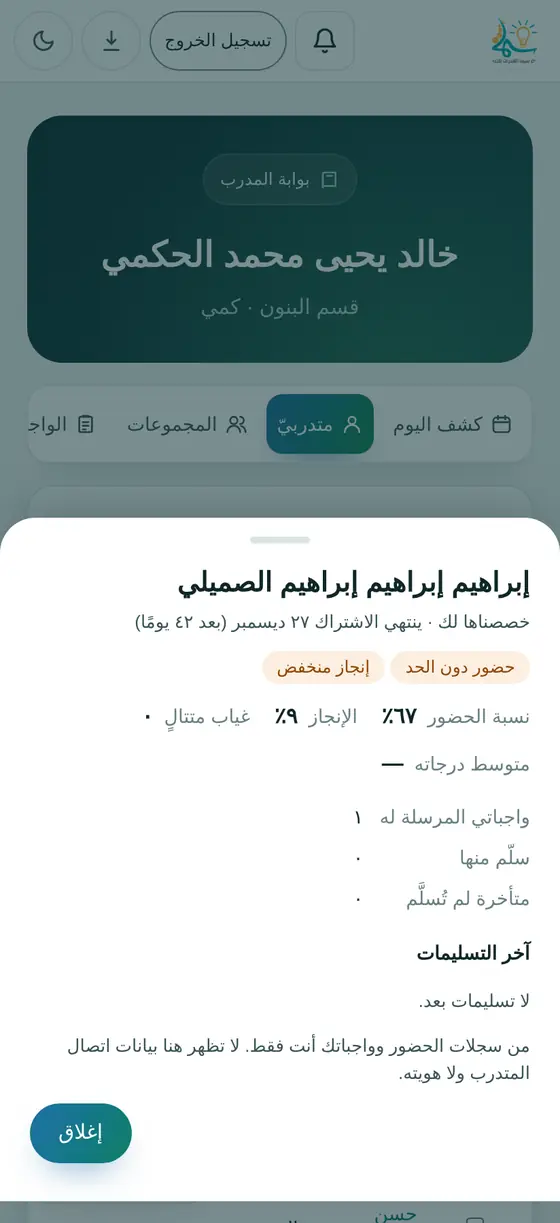
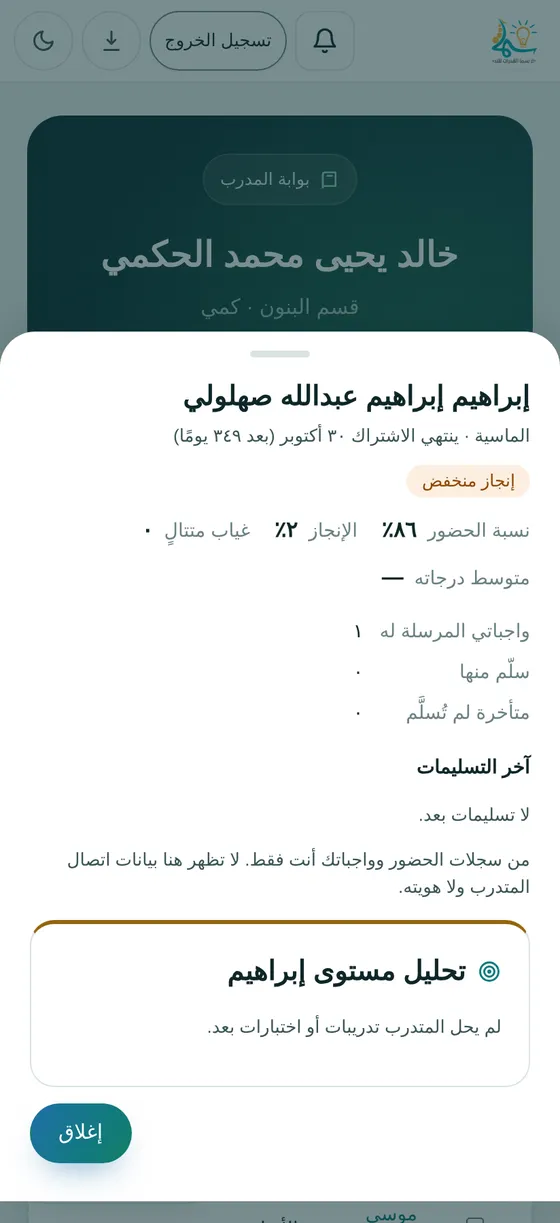
الخطوة AS: تقرير ولي الأمر الأسبوعي وتحديث الدليل (#61)
Claude-Session: https://claude.ai/code/session_012j61WKYZfV81i5FMwMRcDZ

diff --git a/public/guide/trainee.html b/public/guide/trainee.html
@@ -25,7 +25,7 @@ footer{color:#6A8183;font-size:13px;text-align:center}
 @media(prefers-reduced-motion:reduce){html{scroll-behavior:auto}}</style></head>
 <body><header class="hero"><div class="in"><span class="badge">دليل الاستخدام</span><h1>دليل المتدرب</h1><p>الدخول، وتسجيل الحضور، ومتابعة إنجازك وواجباتك من جوالك.</p>
 <div class="top"><a href="../student/">العودة إلى المنصة</a><a href="admin.html">دليل المالك ومدير النظام</a><a href="trainer.html">دليل المدرب</a></div></div></header>
-<main class="wrap"><nav class="toc" aria-label="المحتويات"><b>المحتويات</b><ol><li><a href="#portals">الوصول إلى بوابتك</a></li><li><a href="#login">الدخول أول مرة وعلى جهاز جديد</a></li><li><a href="#welcome">شاشة الترحيب وتسجيل الحضور من التطبيق</a></li><li><a href="#checkin">تسجيل الحضور بالباركود (بديل)</a></li><li><a href="#dash">لوحتي</a></li><li><a href="#hw">واجباتي</a></li><li><a href="#level">قياس مستواي</a></li><li><a href="#msg">المراسلة وتقييم المدرب</a></li><li><a href="#more">الإشعارات والسداد والشهادة</a></li></ol></nav>
+<main class="wrap"><nav class="toc" aria-label="المحتويات"><b>المحتويات</b><ol><li><a href="#portals">الوصول إلى بوابتك</a></li><li><a href="#login">الدخول أول مرة وعلى جهاز جديد</a></li><li><a href="#welcome">شاشة الترحيب وتسجيل الحضور من التطبيق</a></li><li><a href="#checkin">تسجيل الحضور بالباركود (بديل)</a></li><li><a href="#dash">لوحتي</a></li><li><a href="#hw">واجباتي</a></li><li><a href="#level">قياس مستواي: التحليل والمحاكي والتدريب</a></li><li><a href="#msg">المراسلة وتقييم المدرب</a></li><li><a href="#more">الإشعارات والسداد والشهادة</a></li></ol></nav>
 <section id="portals"><h2><span class="n">1</span>الوصول إلى بوابتك</h2>
     <p>من موقع المركز اضغط «البوابات» واختر «بوابة المتدرب». ولولي الأمر بوابة مستقلة يتابع منها ابنه.</p>
     <div class="figs"><figure class="phone"><a href="img/s10_portals.webp" target="_blank" rel="noopener"><img src="img/s10_portals.webp" alt="صفحة البوابات" loading="lazy"></a><figcaption>صفحة البوابات</figcaption></figure></div></section>
@@ -49,13 +49,17 @@ footer{color:#6A8183;font-size:13px;text-align:center}
 <section id="hw"><h2><span class="n">6</span>واجباتي</h2>
     <ol class="steps"><li>الرقم الأحمر على التبويب = واجبات جديدة أو تحتاج تعديلًا.</li><li>في الواجب الكتابي اكتب إجابتك ثم «إرسال»، أو «حفظ مسودة» لتكمل لاحقًا.</li><li>في الاختبار اضغط «ابدأ»: يُفتح مرة واحدة بوقت دقيقتين لكل سؤال، وتُحفظ إجاباتك أولًا بأول، ويُصحَّح عند التسليم أو انتهاء الوقت.</li><li>بعد التصحيح ترى درجتك، والإجابات الصحيحة حين يسمح المدرب.</li></ol>
     <div class="figs"><figure class="phone"><a href="img/s04_hw.webp" target="_blank" rel="noopener"><img src="img/s04_hw.webp" alt="واجباتي" loading="lazy"></a><figcaption>واجباتي</figcaption></figure></div></section>
-<section id="level"><h2><span class="n">7</span>قياس مستواي</h2>
-    <p>اختبار تدريبي تختاره بنفسك: المقرر والوحدة وعدد الأسئلة ثم «ابدأ الاختبار». الأسئلة من بنك مدرب مقررك، وتظهر نتائجك في «محاولاتي».</p>
-    <div class="figs"><figure class="phone"><a href="img/s06_level.webp" target="_blank" rel="noopener"><img src="img/s06_level.webp" alt="قياس مستواي" loading="lazy"></a><figcaption>قياس مستواي</figcaption></figure></div></section>
+<section id="level"><h2><span class="n">7</span>قياس مستواي: التحليل والمحاكي والتدريب</h2>
+    <p><b>تحليل مستواي:</b> نسبة إجاباتك الصحيحة في كل مقرر ومهارة، من الأضعف إلى الأقوى، مع ▲ للتحسن و▼ للتراجع. «ركّز على» يذكر أضعف مهاراتك، وزر <b>«تدرّب على هذه»</b> يفتح 10 أسئلة من تلك المهارة.</p>
+    <p><b>محاكي الاختبار:</b> اختبار كامل موقوت بأقسام القدرات (اللفظي ثم الكمي).</p>
+    <ol class="steps"><li>اختر الأقسام وانظر عدد الأسئلة والوقت، ثم «ابدأ المحاكي».</li><li>سؤال في كل صفحة: اختر الإجابة، و«علّم للمراجعة» لما تريد العودة إليه، و«الأسئلة» تفتح خريطة تنتقل منها لأي سؤال.</li><li>إجاباتك تُحفظ أولًا بأول. «خروج مؤقت» يبقي المحاكي مفتوحًا، والوقت مستمر، وتعود إليه بـ«أكمل المحاكي».</li><li>«تسليم المحاكي» يعرض مؤشر جاهزيتك ونتيجة كل قسم ومهارة، ومراجعة الإجابات الصحيحة.</li></ol>
+    <p class="note info">المؤشر تدريبي من بنك المركز وليس درجة قياس. ثلاث محاولات في اليوم، وتُقدَّم لك أولًا أسئلة لم تحلها من قبل.</p>
+    <p><b>تدريب سريع:</b> اختر المقرر والوحدة أو مهارة بعينها وعدد الأسئلة. وتظهر كل نتائجك في «محاولاتي».</p>
+    <div class="figs"><figure class="phone"><a href="img/s06_level.webp" target="_blank" rel="noopener"><img src="img/s06_level.webp" alt="تحليل مستواي والمحاكي" loading="lazy"></a><figcaption>تحليل مستواي والمحاكي</figcaption></figure><figure class="phone"><a href="img/s06b_sim.webp" target="_blank" rel="noopener"><img src="img/s06b_sim.webp" alt="شاشة المحاكي" loading="lazy"></a><figcaption>شاشة المحاكي</figcaption></figure><figure class="phone"><a href="img/s06c_sim_result.webp" target="_blank" rel="noopener"><img src="img/s06c_sim_result.webp" alt="نتيجة المحاكي" loading="lazy"></a><figcaption>نتيجة المحاكي</figcaption></figure></div></section>
 <section id="msg"><h2><span class="n">8</span>المراسلة وتقييم المدرب</h2>
     <p><b>المراسلة:</b> اختر مدرب المقرر واكتب رسالتك.</p>
     <p><b>تقييم المدرب:</b> بعد 3 أيام حضور يمكنك تقييم مدربك مرة كل شهر (وضوح الشرح، التفاعل، الالتزام، فائدة التدريبات) مع تعليق اختياري. يصل التقييم للمدرب مجمّعًا دون اسمك.</p>
     <div class="figs"><figure class="phone"><a href="img/s07_msg.webp" target="_blank" rel="noopener"><img src="img/s07_msg.webp" alt="المراسلة" loading="lazy"></a><figcaption>المراسلة</figcaption></figure><figure class="phone"><a href="img/s08_rate.webp" target="_blank" rel="noopener"><img src="img/s08_rate.webp" alt="تقييم المدرب" loading="lazy"></a><figcaption>تقييم المدرب</figcaption></figure></div></section>
 <section id="more"><h2><span class="n">9</span>الإشعارات والسداد والشهادة</h2>
-    <ul class="tips"><li><b>الجرس:</b> تذكير قبل الجلسة، والواجبات الجديدة، ورسائل الإدارة والمدرب، ورموز الدخول لجهاز جديد.</li><li><b>طلب الشراء:</b> في «لوحتي» ترى رقم طلبك والمطلوب والمدفوع والمتبقي. إن حوّلت المبلغ اضغط «حوّلت المبلغ؟ أبلغنا بالتحويل» واكتب المبلغ والمرجع؛ تؤكده الإدارة بعد مطابقة كشف البنك.</li><li><b>الشهادة المعتمدة:</b> تصدرها منصة منار (mnar.sa)، فأنشئ حسابك فيها. ووثيقة المنصة «إفادة حضور».</li><li><b>بياناتك:</b> لتصحيح الاسم أو الجوال تواصل مع إدارة المركز عبر واتساب.</li></ul></section>
+    <ul class="tips"><li><b>الجرس:</b> تذكير قبل الجلسة، والواجبات الجديدة، ورسائل الإدارة والمدرب، ورموز الدخول لجهاز جديد.</li><li><b>طلب الشراء:</b> في «لوحتي» ترى رقم طلبك والمطلوب والمدفوع والمتبقي. إن حوّلت المبلغ اضغط «حوّلت المبلغ؟ أبلغنا بالتحويل» واكتب المبلغ والمرجع؛ تؤكده الإدارة بعد مطابقة كشف البنك.</li><li><b>ولي أمرك:</b> يرى في بوابته تقرير أسبوعك (الحضور والواجبات والتدريب ومستوى المهارات) وتحليل مستواك.</li><li><b>الشهادة المعتمدة:</b> تصدرها منصة منار (mnar.sa)، فأنشئ حسابك فيها. ووثيقة المنصة «إفادة حضور».</li><li><b>بياناتك:</b> لتصحيح الاسم أو الجوال تواصل مع إدارة المركز عبر واتساب.</li></ul></section>
 <footer>منصة مركز سما القدرات للتدريب — الصور من النسخة التجريبية ببيانات وهمية. اضغط أي صورة لتكبيرها.</footer></main></body></html>

diff --git a/src/weekly_logic.js b/src/weekly_logic.js
@@ -1,0 +1,85 @@
+/* =====================================================================
+   تقرير ولي الأمر الأسبوعي (الخطوة AS): أسبوع الدراسة من الأحد إلى السبت.
+   الحضور (جلسات الباقة ودفعات البرامج)، والواجبات، والتدريب والمحاكي، ونقاط الضعف،
+   وملخص بجمل جاهزة. عرض فقط (لا يُحفظ)؛ والإشعار الأسبوعي داخلي يوم الخميس
+   (weeklyNotes ↔ run_weekly_reports) ولا إرسال خارجي آلي.
+   ===================================================================== */
+import { addDays, riyadhNow, fmtShort, fmtNum } from './utils.js';
+import { sessionOn, planName, SECTIONS } from './qudurat.js';
+import { isTargeted } from './learning_logic.js';
+import { answerLog, analyze } from './analysis_logic.js';
+import { pct } from './sim_logic.js';
+
+export const WEEK_NOTE_DOW = 4, WEEK_NOTE_HOUR = 18;   // الخميس 6 مساءً بتوقيت الرياض
+const dow = d => new Date(d + 'T12:00:00Z').getUTCDay();
+export const weekOf = d => { const from = addDays(d, -dow(d)); return { from, to:addDays(from, 6) }; };
+const inR = (d, w) => !!d && d >= w.from && d <= w.to;
+const dateOf = ts => ts ? new Date(Date.parse(ts) + 3 * 3600e3).toISOString().slice(0, 10) : '';
+const live = (s, d) => ['pending', 'active'].includes(s.status) && (!s.start_date || s.start_date <= d) && (!s.end_date || s.end_date >= d);
+
+export function weeklyReport(D, trainee_id, from, n = riyadhNow()){
+  const w = { from, to:addDays(from, 6) }, upto = w.to < n.date ? w.to : n.date, t = (D.trainees || []).find(x => x.id === trainee_id) || { id:trainee_id };
+  // الحضور: جلسات الباقة المنعقدة حتى اليوم (اليوم بعد نهاية جلسته)، ودفعات البرامج
+  const days = [], att = { held:0, present:0, late:0, absent:[] };
+  for(const s of (D.subscriptions || []).filter(x => x.trainee_id === trainee_id)){
+    for(let d = w.from; d <= upto; d = addDays(d, 1)){ if(!live(s, d) || (s.track_from && d < s.track_from)) continue; const ses = sessionOn(D, s.section, d); if(!ses) continue;
+      if(d === n.date && n.hm < String(ses.end).slice(0, 5)) continue;
+      const a = (D.sub_attendance || []).find(x => x.subscription_id === s.id && x.att_date === d);
+      att.held++; if(a){ att.present++; if(a.status === 'متأخر') att.late++; } else att.absent.push(d);
+      days.push({ date:d, label:planName((D.plans || []).find(p => p.id === s.plan_id)), status:a ? a.status : 'غائب' }); } }
+  for(const e of (D.enrollments || []).filter(x => x.trainee_id === trainee_id && x.status !== 'ملغى')){
+    const c = (D.cohorts || []).find(x => x.id === e.cohort_id), pr = (D.programs || []).find(x => x.id === (c?.program_id || e.program_id));
+    for(const a of (D.attendance || []).filter(x => x.enrollment_id === e.id && inR(x.att_date, w))){ att.held++; if(a.status === 'غائب'){ att.absent.push(a.att_date); } else { att.present++; if(a.status === 'متأخر') att.late++; }
+      days.push({ date:a.att_date, label:pr?.name || 'برنامج', status:a.status }); } }
+  days.sort((a, b) => a.date.localeCompare(b.date));
+  // الواجبات: المنشورة له هذا الأسبوع أو المستحقة فيه
+  const asg = (D.assignments || []).filter(a => isTargeted(a, trainee_id) && (inR(a.publish_date, w) || inR(a.due_date, w)) && a.publish_date <= upto
+    && (D.subscriptions || []).some(s => s.trainee_id === trainee_id && s.section === a.section && (s.subjects || []).includes(a.subject)));
+  const hw = asg.map(a => { const s = (D.submissions || []).find(x => x.assignment_id === a.id && x.trainee_id === trainee_id);
+    const done = ['submitted', 'graded', 'needs_revision'].includes(s?.status);
+    return { title:a.title, subject:a.subject, due:a.due_date, kind:a.kind, done, late:!!s?.late, score:s?.status === 'graded' && s.score != null ? `${s.score} / ${a.max_score}` : null, overdue:!done && a.due_date < n.date }; });
+  // التدريب والمحاكي
+  const ats = (D.attempts || []).filter(a => a.trainee_id === trainee_id && a.submitted_at && inR(dateOf(a.submitted_at), w));
+  const answered = ats.reduce((s, a) => s + a.total, 0), right = ats.reduce((s, a) => s + (a.score || 0), 0);
+  const sims = ats.filter(a => a.kind === 'sim').map(a => ({ date:dateOf(a.submitted_at), pct:pct(a.score, a.total), focus:a.focus || '' }));
+  // الضعف: كل الإجابات حتى نهاية الأسبوع، ودقة هذا الأسبوع مقابل ما قبله
+  const log = answerLog(D, trainee_id).filter(r => dateOf(r.at) <= w.to), an = analyze(log);
+  const wk = log.filter(r => inR(dateOf(r.at), w)), before = log.filter(r => dateOf(r.at) < w.from);
+  const acc = { week:wk.length ? pct(wk.filter(r => r.right).length, wk.length) : null, before:before.length ? pct(before.filter(r => r.right).length, before.length) : null };
+  const r = { trainee:{ id:t.id, name:t.full_name || '', first:String(t.full_name || '').split(' ')[0] }, week:w, upto, attendance:{ ...att, rate:att.held ? pct(att.present, att.held) : null }, days, hw,
+    hwDone:hw.filter(h => h.done).length, practice:{ attempts:ats.length, answered, right, pct:answered ? pct(right, answered) : null }, sims, analysis:an, accuracy:acc,
+    sections:[...new Set((D.subscriptions || []).filter(s => s.trainee_id === trainee_id).map(s => SECTIONS[s.section]))] };
+  r.summary = summaryOf(r); return r;
+}
+
+/* ملخص بجمل جاهزة، ونصائح عملية */
+export function summaryOf(r){
+  const out = [], tips = [], A = r.attendance, nm = r.trainee.first || 'المتدرب';
+  if(A.held) out.push(`حضر ${nm} ${fmtNum(A.present)} من ${fmtNum(A.held)} ${A.held === 1 ? 'جلسة' : 'جلسات'}${A.late ? `، منها ${fmtNum(A.late)} بتأخر` : ''}.`); else out.push('لم تنعقد له جلسات هذا الأسبوع حتى الآن.');
+  if(r.hw.length) out.push(`سلّم ${fmtNum(r.hwDone)} من ${fmtNum(r.hw.length)} ${r.hw.length === 1 ? 'واجب' : 'واجبات'}.`);
+  if(r.practice.attempts) out.push(`حل ${fmtNum(r.practice.answered)} سؤالًا تدريبيًا بدقة ${fmtNum(r.practice.pct)}٪${r.sims.length ? `، وأدّى ${r.sims.length === 1 ? 'محاكيًا' : fmtNum(r.sims.length) + ' محاكيات'} آخرها ${fmtNum(r.sims.slice(-1)[0].pct)}٪` : ''}.`);
+  else out.push('لم يحل تدريبات في المنصة هذا الأسبوع.');
+  if(r.accuracy.week != null && r.accuracy.before != null){ const d = r.accuracy.week - r.accuracy.before; if(Math.abs(d) >= 5) out.push(d > 0 ? `تحسّنت دقته ${fmtNum(d)} نقطة عن الأسابيع السابقة.` : `تراجعت دقته ${fmtNum(-d)} نقطة عن الأسابيع السابقة.`); }
+  if(A.absent.length) tips.push('الانتظام في الحضور؛ كل جلسة فائتة تؤثر في الاستيعاب ونسبة الحضور.');
+  if(r.hw.some(h => h.overdue)) tips.push('إكمال الواجبات المتأخرة قبل نهاية الأسبوع.');
+  if(r.analysis.weakest.length) tips.push(`التدريب على: ${r.analysis.weakest.map(w => w.category).join('، ')} (من «قياس مستواي» ← «تدرّب على هذه»).`);
+  if(!r.practice.attempts) tips.push('حل تدريب سريع أو محاكٍ واحد على الأقل أسبوعيًا.');
+  return { lines:out, tips };
+}
+
+/* إشعار داخلي أسبوعي لأولياء الأمور (↔ run_weekly_reports) */
+export function weeklyNotes(D, n){
+  if(dow(n.date) !== WEEK_NOTE_DOW || +n.hm.slice(0, 2) < WEEK_NOTE_HOUR) return [];
+  const w = weekOf(n.date), out = [];
+  const ids = [...new Set((D.guardian_links || []).filter(l => l.status === 'verified').map(l => l.trainee_id))]
+    .filter(id => (D.subscriptions || []).some(s => s.trainee_id === id && live(s, n.date)) || (D.enrollments || []).some(e => e.trainee_id === id && e.status !== 'ملغى'));
+  for(const id of ids){ const t = (D.trainees || []).find(x => x.id === id); if(!t) continue;
+    out.push({ to:'guardian', trainee_id:id, date:n.date, kind:'weekly_report', sender:'system', dedupe_key:`weekly:g:${id}:${w.from}`,
+      text:`تقرير أسبوع ${String(t.full_name).split(' ')[0]} جاهز: الحضور والواجبات والتدريب ونقاط التركيز. افتح «تقرير الأسبوع» في البوابة.` }); }
+  return out;
+}
+
+/* نص مختصر للواتساب (يرسله المسؤول بنفسه) */
+export function weeklyText(r){
+  return [`تقرير الأسبوع (${fmtShort(r.week.from)} – ${fmtShort(r.week.to)}) — ${r.trainee.name}`, ...r.summary.lines, ...(r.summary.tips.length ? ['نوصي بـ:', ...r.summary.tips.map(x => '• ' + x)] : []), 'مركز سما القدرات للتدريب'].join('\n');
+}

diff --git a/src/weekly_views.js b/src/weekly_views.js
@@ -1,0 +1,71 @@
+/* =====================================================================
+   تقرير ولي الأمر الأسبوعي (الخطوة AS): بطاقة في بوابة ولي الأمر بتنقل بين الأسابيع
+   وطباعة A4، ونافذة للإدارة (من «المتدربون» ونافذة الاشتراك) فيها طباعة وزر واتساب
+   يفتح رسالة جاهزة يرسلها المسؤول بنفسه.
+   ===================================================================== */
+import { $, esc, fmtNum, fmtShort, riyadhNow, addDays, DAYS } from './utils.js';
+import { ic, toast } from './views2_head.js';
+import { modal, closeModal } from './views2_programs.js';
+import { weekOf, weeklyReport, weeklyText } from './weekly_logic.js';
+import { LEVEL } from './analysis_logic.js';
+import { docShell, printDocs, fmtGreg } from './print.js';
+import { waTo } from './absence_notify.js';
+
+const dowName = d => DAYS[new Date(d + 'T12:00:00Z').getUTCDay()];
+const ST_PILL = { 'حاضر':'ok', 'متأخر':'warn', 'غائب':'bad' };
+const pc = v => v == null ? '—' : fmtNum(v) + '٪';
+
+export function weeklyBody(r){
+  const A = r.attendance, an = r.analysis;
+  return `<div class="wk">
+    <div class="wk-sum">${r.summary.lines.map(x => `<p>${esc(x)}</p>`).join('')}</div>
+    <div class="wk-kpis"><div><span>الحضور</span><b class="num">${A.held ? `${fmtNum(A.present)} / ${fmtNum(A.held)}` : '—'}</b><small>${A.late ? `${fmtNum(A.late)} تأخر` : A.held ? pc(A.rate) : 'لا جلسات'}</small></div>
+      <div><span>الواجبات</span><b class="num">${r.hw.length ? `${fmtNum(r.hwDone)} / ${fmtNum(r.hw.length)}` : '—'}</b><small>${r.hw.some(h => h.overdue) ? `${fmtNum(r.hw.filter(h => h.overdue).length)} متأخر` : r.hw.length ? 'مسلّمة' : 'لا واجبات'}</small></div>
+      <div><span>التدريب</span><b class="num">${fmtNum(r.practice.answered)}</b><small>سؤالًا${r.practice.pct != null ? ` · دقة ${pc(r.practice.pct)}` : ''}</small></div>
+      <div><span>المحاكي</span><b class="num">${r.sims.length ? pc(r.sims.slice(-1)[0].pct) : '—'}</b><small>${r.sims.length ? `${fmtNum(r.sims.length)} هذا الأسبوع` : 'لم يُؤدَّ'}</small></div></div>
+    ${r.days.length ? `<h4>الحضور يومًا بيوم</h4><ul class="wk-days">${r.days.map(d => `<li><span>${dowName(d.date)} ${fmtShort(d.date)}</span><span class="hint">${esc(d.label)}</span><span class="pill dot ${ST_PILL[d.status] || 'g'}">${esc(d.status)}</span></li>`).join('')}</ul>` : ''}
+    ${r.hw.length ? `<h4>الواجبات</h4><ul class="wk-days">${r.hw.map(h => `<li><span>${esc(h.title)}</span><span class="hint">${esc(h.subject)} · يُستحق ${fmtShort(h.due)}</span><span class="pill ${h.done ? 'ok' : h.overdue ? 'bad' : 'g'}">${h.done ? (h.score ? 'الدرجة ' + esc(h.score) : h.late ? 'سُلّم متأخرًا' : 'سُلّم') : h.overdue ? 'لم يُسلَّم' : 'لم يحن موعده'}</span></li>`).join('')}</ul>` : ''}
+    ${an.subjects.length ? `<h4>مستوى المهارات</h4><div class="wk-sk">${an.subjects.map(s => `<div><b>${esc(s.subject)} ${pc(s.pct)}</b>${s.skills.filter(k => k.ranked).slice(0, 4).map(k => `<span class="pill ${LEVEL[k.level][0]}">${esc(k.category)} ${pc(k.pct)}</span>`).join(' ') || '<span class="hint">بيانات قليلة</span>'}</div>`).join('')}</div>` : ''}
+    ${r.summary.tips.length ? `<h4>نوصي هذا الأسبوع بـ</h4><ul class="wk-tips">${r.summary.tips.map(x => `<li>${esc(x)}</li>`).join('')}</ul>` : ''}
+  </div>`;
+}
+
+export function weeklyDoc(r){
+  const A = r.attendance;
+  return docShell({ docNo:`WK-${r.week.from.replace(/-/g, '')}`, title:'تقرير الأسبوع للمتدرب', sub:`${fmtGreg(r.week.from)} – ${fmtGreg(r.week.to)}`,
+    info:[['المتدرب', r.trainee.name, 'wide'], ['القسم', r.sections.join('، ') || '—'], ['حتى تاريخ', fmtGreg(r.upto)]],
+    stats:[['الحضور', A.held ? `${A.present} / ${A.held}` : '—', A.absent.length ? 'warn' : 'ok'], ['الواجبات', r.hw.length ? `${r.hwDone} / ${r.hw.length}` : '—'], ['أسئلة التدريب', String(r.practice.answered)], ['دقة التدريب', pc(r.practice.pct)], ['آخر محاكٍ', r.sims.length ? pc(r.sims.slice(-1)[0].pct) : '—']],
+    body:weeklyBody(r).replace('<div class="wk">', '<div class="wk wk-print">'), note:'تقرير تلقائي من منصة المركز للاطلاع والمتابعة؛ مؤشر المحاكي تدريبي وليس درجة قياس.' });
+}
+
+/* بطاقة البوابة (ولي الأمر) */
+let wkFrom = null, wkFor = null;
+export function weeklyCard(D, trainee_id){
+  const n = riyadhNow(), cur = weekOf(n.date).from; if(wkFor !== trainee_id){ wkFor = trainee_id; wkFrom = cur; }
+  const r = weeklyReport(D, trainee_id, wkFrom, n);
+  return `<div class="card pad rv wk-card" id="wkCard"><div class="wk-h"><h3 class="ctitle" style="margin:0">${ic('calendar')}تقرير الأسبوع</h3>
+      <div class="wk-nav"><button class="btn sm" id="wkPrev" aria-label="الأسبوع السابق">${ic('prev')}</button><b>${fmtShort(r.week.from)} – ${fmtShort(r.week.to)}${wkFrom === cur ? ' <span class="pill info">هذا الأسبوع</span>' : ''}</b>
+      <button class="btn sm" id="wkNext" aria-label="الأسبوع التالي" ${wkFrom >= cur ? 'disabled' : ''}>${ic('next')}</button></div></div>
+    ${weeklyBody(r)}<div style="display:flex;justify-content:flex-end;margin-top:12px"><button class="btn sm" id="wkPrint">${ic('form')} طباعة / PDF</button></div></div>`;
+}
+export function bindWeeklyCard(D, trainee_id, redraw){
+  const cur = weekOf(riyadhNow().date).from;
+  $('#wkPrev').onclick = () => { wkFrom = addDays(wkFrom, -7); redraw(); };
+  $('#wkNext').onclick = () => { if(wkFrom < cur){ wkFrom = addDays(wkFrom, 7); redraw(); } };
+  $('#wkPrint').onclick = () => printDocs([weeklyDoc(weeklyReport(D, trainee_id, wkFrom))], 'تقرير الأسبوع');
+}
+
+/* نافذة الإدارة: تُحمَّل بيانات التعلم للمتدرب ثم يُبنى التقرير؛ واتساب لولي الأمر أو للمتدرب */
+export async function adminWeeklyModal(AD, trainee_id, loadLearning){
+  let from = weekOf(riyadhNow().date).from, X;
+  try { X = await loadLearning(trainee_id); } catch(e){ return toast(e.message); }
+  const D = { ...AD, ...X }, t = (AD.trainees || []).find(x => x.id === trainee_id) || {};
+  const draw = () => { const r = weeklyReport(D, trainee_id, from), cur = weekOf(riyadhNow().date).from, gp = t.guardian_phone, wa = waTo(gp || t.phone, weeklyText(r));
+    modal(`<h3>تقرير الأسبوع · ${esc(t.full_name || '')}</h3><div class="wk-nav" style="margin:-6px 0 10px"><button class="btn sm" id="awP" aria-label="الأسبوع السابق">${ic('prev')}</button><b>${fmtShort(r.week.from)} – ${fmtShort(r.week.to)}</b><button class="btn sm" id="awN" aria-label="الأسبوع التالي" ${from >= cur ? 'disabled' : ''}>${ic('next')}</button></div>
+      ${weeklyBody(r)}<div style="display:flex;gap:8px;flex-wrap:wrap;justify-content:flex-end;margin-top:12px">
+      ${wa ? `<a class="btn sm" id="awWa" href="${esc(wa)}" target="_blank" rel="noopener">${ic('chat')} واتساب ${gp ? 'لولي الأمر' : 'للمتدرب'}</a>` : '<span class="hint">لا يوجد جوال صالح للواتساب</span>'}
+      <button class="btn sm" id="awPr">${ic('form')} طباعة / PDF</button><button class="btn pri sm" id="awX">إغلاق</button></div>`);
+    $('#awP').onclick = () => { from = addDays(from, -7); draw(); }; $('#awN').onclick = () => { if(from < cur){ from = addDays(from, 7); draw(); } };
+    $('#awPr').onclick = () => printDocs([weeklyDoc(r)], 'تقرير الأسبوع'); $('#awX').onclick = closeModal; };
+  draw();
+}

diff --git a/public/guide/admin.html b/public/guide/admin.html
@@ -80,10 +80,14 @@ footer{color:#6A8183;font-size:13px;text-align:center}
     <p class="note warn">الجوال مفتاح دخول البوابة، ورقم الهوية يكتبه المتدرب عند الحضور: أبلغه بأي تغيير فيهما. وكل تعديل مسجّل في أرشيف الحركات.</p>
     <p><b>تعديل بيانات أي متدرب:</b> زر القلم في «المتدربون»، أو «تعديل بيانات المتدرب» في نافذة الاشتراك، أو البحث في «مراجعة البيانات» (يصل إلى كل المتدربين لا أصحاب الملاحظات فقط).</p>
     <p><b>كشف حساب المتدرب:</b> زر الإيصال في «المتدربون»، أو «كشف الحساب» في بياناته، أو «كشف حساب المتدرب» في نافذة الطلب: كل طلباته ورسومها والدفعات السابقة والفواتير وإشعارات الاسترداد بالتسلسل الزمني، مع الرصيد، وطباعة A4 وتصدير CSV.</p>
-    <div class="figs"><figure class="wide"><a href="img/a30_trainees.webp" target="_blank" rel="noopener"><img src="img/a30_trainees.webp" alt="سجل المتدربين" loading="lazy"></a><figcaption>سجل المتدربين</figcaption></figure><figure class="wide"><a href="img/a24_data.webp" target="_blank" rel="noopener"><img src="img/a24_data.webp" alt="مراجعة البيانات" loading="lazy"></a><figcaption>مراجعة البيانات</figcaption></figure><figure class="wide"><a href="img/a37_edit_trainee.webp" target="_blank" rel="noopener"><img src="img/a37_edit_trainee.webp" alt="بيانات المتدرب" loading="lazy"></a><figcaption>بيانات المتدرب</figcaption></figure><figure class="wide"><a href="img/a36_statement.webp" target="_blank" rel="noopener"><img src="img/a36_statement.webp" alt="كشف حساب المتدرب" loading="lazy"></a><figcaption>كشف حساب المتدرب</figcaption></figure></div></section>
+    <p><b>تقرير الأسبوع:</b> زر التقويم في «المتدربون»، أو «تقرير الأسبوع» في نافذة الاشتراك: حضور الأسبوع يومًا بيوم، والواجبات، والتدريب والمحاكي، ومستوى المهارات، ونصائح عملية، مع التنقل بين الأسابيع. «واتساب لولي الأمر» يفتح رسالة جاهزة ترسلها بنفسك من واتساب المركز، و«طباعة» تخرجه A4 بترويسة المركز.</p>
+    <p class="note info">ولي الأمر يرى التقرير نفسه في بوابته، ويصله إشعار داخلي كل خميس بعد السادسة مساءً بأن تقرير الأسبوع جاهز. لا يُرسل شيء خارج المنصة آليًا.</p>
+    <div class="figs"><figure class="wide"><a href="img/a30_trainees.webp" target="_blank" rel="noopener"><img src="img/a30_trainees.webp" alt="سجل المتدربين" loading="lazy"></a><figcaption>سجل المتدربين</figcaption></figure><figure class="wide"><a href="img/a24_data.webp" target="_blank" rel="noopener"><img src="img/a24_data.webp" alt="مراجعة البيانات" loading="lazy"></a><figcaption>مراجعة البيانات</figcaption></figure><figure class="wide"><a href="img/a37_edit_trainee.webp" target="_blank" rel="noopener"><img src="img/a37_edit_trainee.webp" alt="بيانات المتدرب" loading="lazy"></a><figcaption>بيانات المتدرب</figcaption></figure><figure class="wide"><a href="img/a36_statement.webp" target="_blank" rel="noopener"><img src="img/a36_statement.webp" alt="كشف حساب المتدرب" loading="lazy"></a><figcaption>كشف حساب المتدرب</figcaption></figure><figure class="wide"><a href="img/a38_weekly.webp" target="_blank" rel="noopener"><img src="img/a38_weekly.webp" alt="تقرير الأسبوع للمتدرب" loading="lazy"></a><figcaption>تقرير الأسبوع للمتدرب</figcaption></figure></div></section>
 <section id="users"><h2><span class="n">13</span>المدربون، وبنوك الأسئلة، وتفعيل الأجهزة</h2>
     <p><b>المدربون وأولياء الأمور:</b> إضافة مدرب بقسمه ومقرراته وجواله وهويته، وربط أولياء الأمور بأبنائهم.</p>
     <p><b>بنوك الأسئلة:</b> بنك لكل مدرب. تضيف الأسئلة واحدًا واحدًا أو «استيراد من Excel»، وتعتمد مفاتيح الإجابات قبل نشر الاختبارات الرسمية.</p>
+    <p><b>تصنيف مهارات قياس:</b> لكل سؤال مهارة من قائمة ثابتة (اللفظي: استيعاب المقروء، التناظر، إكمال الجمل، الخطأ السياقي، الارتباط والاختلاف؛ الكمي: الحساب، الجبر، الهندسة، الإحصاء والاحتمالات، المقارنات الكمية). عليها يُبنى تحليل نقاط الضعف للمتدربين. في «البنوك المشتركة» اضغط «تصنيف المهارات»، واختر الوحدة، وحدّد الأسئلة من صورها، ثم اختر المهارة و«تطبيق على المحدد». وفي محرر أي سؤال حقل «مهارة قياس».</p>
+    <p class="note info">أسئلة اللفظي ذات القطعة صُنّفت «استيعاب المقروء» تلقائيًا. والتصنيف لاحقًا يصحح تحليل المتدربين بأثر رجعي.</p>
     <p><b>تفعيل الأجهزة:</b> هنا تصدر رمز التفعيل (6 أرقام، لمرة واحدة، صالح 7 أيام) للمتدرب أو ولي الأمر أو المدرب، فرديًا أو للجميع مع كشف طباعة. الرمز يظهر مرة واحدة. وفيها بطاقة «طلبات دخول الآن» لمن طلب رمزًا لجهاز جديد، مع زر إرساله عبر واتساب.</p>
     <div class="figs"><figure class="wide"><a href="img/a22_users.webp" target="_blank" rel="noopener"><img src="img/a22_users.webp" alt="المدربون وأولياء الأمور" loading="lazy"></a><figcaption>المدربون وأولياء الأمور</figcaption></figure><figure class="wide"><a href="img/a23_bank.webp" target="_blank" rel="noopener"><img src="img/a23_bank.webp" alt="بنوك الأسئلة" loading="lazy"></a><figcaption>بنوك الأسئلة</figcaption></figure><figure class="wide"><a href="img/a25_access.webp" target="_blank" rel="noopener"><img src="img/a25_access.webp" alt="تفعيل الأجهزة ورموز الدخول" loading="lazy"></a><figcaption>تفعيل الأجهزة ورموز الدخول</figcaption></figure></div></section>
 <section id="reports"><h2><span class="n">14</span>تقرير اليوم والتقارير والطباعة</h2>

diff --git a/src/data2.js b/src/data2.js
@@ -14,6 +14,7 @@ import { checkProfile, checkGroup, GROUPS_MAX } from './trainer_logic.js';
 import { PAY_METHODS, BANK_DEFAULT, orderRemaining, orderNumber, attendanceBlocked, orderPublic, checkTransfer, validIban } from './order_logic.js';
 import { checkRole, auditFilter, auditRedact } from './admin_logic.js';
 import { checkBirthGuardian, selfLinkLogic, LINK_FAIL, LINK_LOCKED } from './identity_logic.js';
+import { weeklyNotes } from './weekly_logic.js';
 import { catOk, simOpen, simExpired, simsToday, SIM_DAILY_MAX, sortSubjects, buildSim, cleanAnswers, CATEGORIES } from './sim_logic.js';
 import { SUBJECTS, validateAssignment, validateQuestion, buildAttempt, attemptPublic, gradeAttempt, canRate, ratingSummary, validateMessage, teacherCovers, teacherTeaches, studentHasScope, bankFor, period, demoLearning, backfillCategories, bankUnitsOf, buildQuiz, quizPublic, gradeQuiz, teacherBank, normalizeBundle, LETTERS, isTargeted, assignmentPublic, submissionPublic, checkTargets, checkExamKeys, quizDeadline, quizOpen , attemptsLeft, attemptsOf, snapOf, liveSubsOf } from './learning_logic.js';
 import { addDays, dowOf, fmtDate, fmtMoney, fmtNum, hash32, makeSaudiId, riyadhNow, t12, toMin, uid, validSaudiId } from './utils.js';
@@ -562,7 +563,7 @@ export const LocalStore = {
   async portalData(role){ const s=await this.portalSession(role); if(!s) throw new Error('انتهت الجلسة، سجّل الدخول مجددًا'); this.autoArchive(); this.runReminders(); this.finalizeExpiredQuizzes(); const out=JSON.parse(JSON.stringify(scopeData(this.data, role, s.phone))); out.bank_assets=this.data.settings?.bank_assets||''; if(out) out.q_meta=qMetaOf(this.data, out); return out; },
   /* صندوق الوارد (الخطوة D): تنبيهات بدء الجلسة تُنشأ عند الحاجة (في السحابة: pg_cron كل دقيقة)، ومفتاح منع التكرار */
   runReminders(){ const D=this.data; D.notifications=D.notifications||[]; const keys=new Set(D.notifications.map(x=>x.dedupe_key).filter(Boolean));
-    const add=sessionReminders(D, riyadhNow()).filter(x=>!keys.has(x.dedupe_key)); if(add.length){ D.notifications.push(...add); this.save(); } return add.length; },
+    const n=riyadhNow(), add=[...sessionReminders(D, n), ...weeklyNotes(D, n).map(x=>({id:uid(), at:new Date().toISOString(), read_at:null, ...x}))].filter(x=>!keys.has(x.dedupe_key)); if(add.length){ D.notifications.push(...add); this.save(); } return add.length; },
   async inboxState(role){ const s=await this.portalSession(role); if(!s) return {items:[], unread:0}; this.load(); this.runReminders(); const sc=scopeData(this.data, role, s.phone); return sc ? inboxOf(sc, role) : {items:[], unread:0}; },
   async adminNotify(f){ const D=this.data, text=String(f.text||'').trim(); if(text.length<3) throw new Error('اكتب نص الرسالة'); if(text.length>600) throw new Error('الرسالة أطول من 600 حرف');
     if(!['student','guardian','teacher'].includes(f.audience)) throw new Error('اختر الفئة المستهدفة');
@@ -811,6 +812,11 @@ export const LocalStore = {
     const L=(this.data.questions=this.data.questions||[]), row={teacher_id:t.id, section:t.section, subject:q.subject, unit:String(q.unit||'').trim()||'عام', skill:String(q.skill||'').trim(), text:q.text.trim(), options:q.options.map(x=>String(x).trim()), correct:+q.correct, explanation:String(q.explanation||'').trim(), difficulty:q.difficulty||'متوسط', status:q.status==='published'?'published':'draft', category:catGuard(q.subject, q.category)};
     if(q.id){ const x=L.find(y=>y.id===q.id); if(!x) throw new Error('السؤال غير موجود'); Object.assign(x,row,{version:(x.version||1)+1}); } else L.push({id:uid(), version:1, created_at:new Date().toISOString(), ...row});
     this.audit('question.save', q.id||'new', t.id); this.save(); return {ok:true}; },
+  /* بيانات التعلم لمتدرب واحد (↔ admin_trainee_learning): للتقرير الأسبوعي في الإدارة */
+  async traineeLearning(id){ const D=this.data, subs=(D.subscriptions||[]).filter(s=>s.trainee_id===id);
+    const out={ attempts:(D.attempts||[]).filter(a=>a.trainee_id===id&&a.submitted_at), submissions:(D.submissions||[]).filter(x=>x.trainee_id===id),
+      assignments:(D.assignments||[]).filter(a=>subs.some(s=>s.section===a.section&&(s.subjects||[]).includes(a.subject))) };
+    return JSON.parse(JSON.stringify({ ...out, q_meta:qMetaOf(D, out) })); },
   /* تصنيف مهارة قياس لأسئلة مختارة (↔ admin_set_category) */
   async setQuestionCategory(ids, category){ const L=this.data.questions||[], c=category||''; const qs=L.filter(q=>(ids||[]).includes(q.id)&&q.status!=='deleted');
     if(!qs.length) throw new Error('اختر سؤالًا واحدًا على الأقل'); if(qs.some(q=>!catOk(q.subject, c))) throw new Error('التصنيف لا يناسب مقرر السؤال');
@@ -981,6 +987,7 @@ export const CloudStore = {
   async startSim(p){ return this._e(await this.sb.rpc('student_start_sim',{p})); },
   async saveAttemptAnswers({attempt_id, answers}){ return this._e(await this.sb.rpc('student_save_attempt',{p_id:attempt_id, p_answers:answers||{}})); },
   async setQuestionCategory(ids, category){ return this._e(await this.sb.rpc('admin_set_category',{p_ids:ids, p_category:category||''})); },
+  async traineeLearning(id){ return this._e(await this.sb.rpc('admin_trainee_learning',{p_trainee:id})); },
   async rateTeacher(p){ return this._e(await this.sb.rpc('student_rate',{p})); },
   async sendMessage(p, role){ return this._e(await this.sb.rpc('send_message',{p, p_role:role})); },
   async markThreadRead({trainee_id, teacher_id}, role){ await this.sb.rpc('mark_thread_read',{p_trainee:trainee_id, p_teacher:teacher_id, p_role:role}); },

diff --git a/src/views2_admin.js b/src/views2_admin.js
@@ -1,5 +1,6 @@
 import { editTraineeModal } from './import_views.js';
 import { statementModal } from './statement_views.js';
+import { adminWeeklyModal } from './weekly_views.js';
 import { LOGO } from './assets/logo.js';
 import { pageAdmins, pageAudit, changePasswordModal, logoutAllBox } from './admins_views.js';
 import { canSeePage, ADMIN_ROLES } from './admin_logic.js';
@@ -420,7 +421,7 @@ export function pageTrainees(){
      <td dir="ltr" style="text-align:right">${esc(t.national_id)}</td><td dir="ltr" style="text-align:right">${esc(t.phone)}</td><td>${esc(t.city||'')}</td>
      <td style="min-width:260px"><div style="display:flex;flex-direction:column;gap:4px">${ensOf(t).map(e=>{ const c=AD.cohorts.find(x=>x.id===e.cohort_id); if(!c) return ''; const ds=sessionDays(c,riyadhNow().date).filter(d=>d>=e.created_at.slice(0,10)), n=attendance.filter(a=>a.enrollment_id===e.id).length, r=ds.length?Math.round(n/ds.length*100):null;
        return `<button class="enr" data-cv="${c.id}"><span class="pill dot ${e.status==='ملغى'?'bad':STATE_PILL[cohortState(c)]}">${e.status==='ملغى'?'ملغى':STATE_TXT[cohortState(c)]}</span><span style="flex:1;text-align:right">${esc(short(progName(e.program_id)))} · د${fmtNum(c.number)}</span><span class="hint num">${r===null?'—':fmtNum(r)+'٪'}</span></button>`; }).join('')}</div></td>
-     <td style="white-space:nowrap"><button class="btn sm" data-ted="${t.id}" title="تعديل بيانات المتدرب" aria-label="تعديل بيانات ${esc(t.full_name)}">${ic('edit')}</button> <button class="btn sm" data-tst="${t.id}" title="كشف الحساب" aria-label="كشف حساب ${esc(t.full_name)}">${ic('receipt')}</button> <button class="btn sm danger soft" data-del="${t.id}" title="حذف المتدرب" aria-label="حذف ${esc(t.full_name)}">${ic('trash')}</button></td></tr>`).join('')}
+     <td style="white-space:nowrap"><button class="btn sm" data-ted="${t.id}" title="تعديل بيانات المتدرب" aria-label="تعديل بيانات ${esc(t.full_name)}">${ic('edit')}</button> <button class="btn sm" data-tst="${t.id}" title="كشف الحساب" aria-label="كشف حساب ${esc(t.full_name)}">${ic('receipt')}</button> <button class="btn sm" data-twr="${t.id}" title="تقرير الأسبوع" aria-label="تقرير أسبوع ${esc(t.full_name)}">${ic('calendar')}</button> <button class="btn sm danger soft" data-del="${t.id}" title="حذف المتدرب" aria-label="حذف ${esc(t.full_name)}">${ic('trash')}</button></td></tr>`).join('')}
    </tbody></table></div>${list.length>400?`<p class="hint">تظهر أول ٤٠٠ نتيجة. استخدم البحث لتضييق القائمة.</p>`:''}` : emptyBox('لا يوجد متدربون مطابقون','غيّر البحث أو المرشح.')}`;
   $('#tsc').onchange=e=>{ trSc=e.target.value; pageTrainees(); };
   $('#tq').oninput=e=>{ trQ=e.target.value; clearTimeout(window._tq); window._tq=setTimeout(()=>{ pageTrainees(); const el=$('#tq'); el.focus(); el.setSelectionRange(el.value.length,el.value.length); },300); };
@@ -429,6 +430,7 @@ export function pageTrainees(){
   $$('[data-cv]').forEach(b=>b.onclick=()=>{ cohortView=b.dataset.cv; location.hash='#admin-cohorts'; });
   $$('[data-ted]').forEach(b=>b.onclick=()=>editTraineeModal(b.dataset.ted, pageTrainees));
   $$('[data-tst]').forEach(b=>b.onclick=()=>statementModal(b.dataset.tst));
+  $$('[data-twr]').forEach(b=>b.onclick=()=>adminWeeklyModal(AD, b.dataset.twr, id=>Store.traineeLearning(id)));
   $$('[data-del]').forEach(b=>b.onclick=()=>confirmBox('حذف المتدرب','يُحذف المتدرب إذا لم يكن له حضور أو شهادات. من له سجلات يُلغى تسجيله ولا يُحذف حفاظًا على التاريخ.', async()=>{ await Store.deleteTrainee(b.dataset.del); await reloadAD(); toast('حُذف المتدرب'); pageTrainees(); }));
   $('#csv').onclick=()=>{ const head=['الاسم','السجل المدني','الجوال','البريد','الجنس','المدينة','المؤهل','جهة العمل','البرنامج','الدفعة','رقم الطلب','حالة التسجيل'];
     const rows=list.flatMap(t=>ensOf(t).map(e=>{ const c=AD.cohorts.find(x=>x.id===e.cohort_id); return [t.full_name,t.national_id,t.phone,t.email,t.gender,t.city,t.education,t.employer,progName(e.program_id),c?c.number:'',e.ref,e.status]; }));

diff --git a/src/qudurat_views.js b/src/qudurat_views.js
@@ -3,6 +3,7 @@
    ===================================================================== */
 import { editTraineeModal } from './import_views.js';
 import { statementModal } from './statement_views.js';
+import { adminWeeklyModal } from './weekly_views.js';
 import { planPoster, COMPARE_ART } from './plan_art.js';
 import { $, $$, esc, fmtNum, fmtDate, fmtShort, riyadhNow, t12, addDays, validSaudiId, DAYS, matchPerson, scopeSelect } from './utils.js';
 import { ic, emptyBox, ringSvg, toast, countUp } from './views2_head.js';
@@ -330,7 +331,7 @@ function subModal(s){
   const D = AD, t = s ? D.trainees.find(x => x.id === s.trainee_id) : null, plans = (D.plans || []).filter(p => p.active !== false);
   modal(`<h3>${s ? 'تعديل الاشتراك' : 'إضافة مشترك'}</h3>
     <form id="smF" class="grid g2" novalidate>
-      ${s ? `<div class="field" style="grid-column:1/-1"><label>المتدرب</label><div class="inp" style="display:flex;align-items:center;background:var(--surface-sunken)">${esc(t?.full_name || '')} · <span dir="ltr">${esc(t?.national_id || '')}</span></div><div style="display:flex;gap:8px;flex-wrap:wrap;margin-top:6px"><button type="button" class="btn sm" id="smTE">${ic('edit')} تعديل بيانات المتدرب</button><button type="button" class="btn sm" id="smST">${ic('receipt')} كشف الحساب</button></div></div>`
+      ${s ? `<div class="field" style="grid-column:1/-1"><label>المتدرب</label><div class="inp" style="display:flex;align-items:center;background:var(--surface-sunken)">${esc(t?.full_name || '')} · <span dir="ltr">${esc(t?.national_id || '')}</span></div><div style="display:flex;gap:8px;flex-wrap:wrap;margin-top:6px"><button type="button" class="btn sm" id="smTE">${ic('edit')} تعديل بيانات المتدرب</button><button type="button" class="btn sm" id="smST">${ic('receipt')} كشف الحساب</button> <button type="button" class="btn sm" id="smWR">${ic('calendar')} تقرير الأسبوع</button></div></div>`
         : `<div class="field"><label for="sm-nid">السجل المدني <i>*</i></label><input class="inp num" id="sm-nid" name="national_id" inputmode="numeric" maxlength="10" dir="ltr"><span class="hint" id="smFound"></span></div>
            <div class="field"><label for="sm-name">الاسم الرباعي <i>*</i></label><input class="inp" id="sm-name" name="full_name" maxlength="80"></div>
            <div class="field"><label for="sm-phone">الجوال</label><input class="inp num" id="sm-phone" name="phone" inputmode="numeric" maxlength="10" dir="ltr"></div>
@@ -352,6 +353,7 @@ function subModal(s){
     $('#sm-phone').addEventListener('input', e => e.target.value = toLatin(e.target.value).replace(/\D/g, '')); }
   if($('#smTE')) $('#smTE').onclick = () => editTraineeModal(t.id, () => pageQudurat());
   if($('#smST')) $('#smST').onclick = () => statementModal(t.id);
+  if($('#smWR')) $('#smWR').onclick = () => adminWeeklyModal(AD, t.id, id => Store.traineeLearning(id));
   $('#smF').onsubmit = async e => { e.preventDefault(); const f = Object.fromEntries(new FormData(e.target)); $('#smE').textContent = '';
     if(!s){ if(!validSaudiId(f.national_id)) return $('#smE').textContent = 'رقم السجل المدني غير صحيح.'; if(f.full_name.trim().split(/\s+/).length < 3) return $('#smE').textContent = 'اكتب الاسم الثلاثي على الأقل.'; }
     const b = $('#smS'); setBusy(b, true, 'جارٍ الحفظ');

diff --git a/src/portals.js b/src/portals.js
@@ -18,6 +18,7 @@ import { studentHomework, studentLevel, studentMessages, studentRating, teacherH
 import { assignmentsFor } from './learning_logic.js';
 import { mountInbox, unmountInbox } from './inbox_ui.js';
 import { analysisHtml } from './analysis_views.js';
+import { weeklyCard, bindWeeklyCard } from './weekly_views.js';
 import { initPwa } from './pwa.js';
 import { ordersCardHtml, bindOrdersCard } from './order_panel.js';
 import { teacherGroups, teacherProfile, teacherPeople, daySummaryHtml, trainersCardHtml, printDaySheet } from './trainer_views.js';
@@ -230,9 +231,10 @@ function viewGuardian(D, s){
       <p>${esc(ch.relation || '')}${it ? ' · ' + esc(it.plan) + ' · قسم ' + esc(it.section) : px ? ' · ' + esc(px.program) : ''}</p></div>
       <div><button class="btn sm ghost-t" id="gLink">${ic('plus')} ربط ابن أو ابنة</button></div></section>
     ${g.children.length > 1 ? `<div class="tabs" style="margin:14px 0">${g.children.map((c, i) => `<button class="tab" data-gi="${i}" aria-selected="${i === gIdx}">${ic('user')}${esc(c.trainee.first_name)}</button>`).join('')}</div>` : ''}
-    ${!u ? emptyBox('لا توجد اشتراكات أو برامج') : itemTabs(U, sIdx) + (it ? studentPanelHtml(it) + studentDetailHtml(it, ch.notifications) : programPanelHtml(px, D.settings?.cert_threshold ?? 75))}<div style="margin-top:16px">${analysisHtml(D, ch.trainee.id, { role:'guardian', name:ch.trainee.first_name })}</div>${ordersCardHtml((D.orders || []).filter(o => o.trainee_id === ch.trainee.id), ch.trainee.first_name)}</div>`;
+    ${!u ? emptyBox('لا توجد اشتراكات أو برامج') : itemTabs(U, sIdx) + (it ? studentPanelHtml(it) + studentDetailHtml(it, ch.notifications) : programPanelHtml(px, D.settings?.cert_threshold ?? 75))}<div style="margin-top:16px">${weeklyCard(D, ch.trainee.id)}${analysisHtml(D, ch.trainee.id, { role:'guardian', name:ch.trainee.first_name })}</div>${ordersCardHtml((D.orders || []).filter(o => o.trainee_id === ch.trainee.id), ch.trainee.first_name)}</div>`;
   bindOrdersCard($('#app'), (D.orders || []).filter(o => o.trainee_id === ch.trainee.id), async () => viewGuardian(await Store.portalData('guardian'), s));
   $('#gLink').onclick = () => { modal(linkFormHtml(false)); bindLinkForm(); };
+  bindWeeklyCard(D, ch.trainee.id, () => { const y = scrollY; viewGuardian(D, s); scrollTo(0, y); });
   $$('[data-gi]').forEach(b => b.onclick = () => { gIdx = +b.dataset.gi; sIdx = 0; viewGuardian(D, s); });
   $$('[data-si]').forEach(b => b.onclick = () => { sIdx = +b.dataset.si; viewGuardian(D, s); });
   if(ch.notifications.some(x => !x.read_at)) Store.markRead('guardian');

diff --git a/public/guide/trainer.html b/public/guide/trainer.html
@@ -36,7 +36,7 @@ footer{color:#6A8183;font-size:13px;text-align:center}
     <div class="figs"><figure class="phone"><a href="img/t02_today.webp" target="_blank" rel="noopener"><img src="img/t02_today.webp" alt="ملخص اليوم" loading="lazy"></a><figcaption>ملخص اليوم</figcaption></figure><figure class="phone"><a href="img/t03_today_sheet.webp" target="_blank" rel="noopener"><img src="img/t03_today_sheet.webp" alt="كشف حضور الجلسة" loading="lazy"></a><figcaption>كشف حضور الجلسة</figcaption></figure></div></section>
 <section id="people"><h2><span class="n">3</span>متدربيّ</h2>
     <p>قائمة متدربي مقرراتك مع الباقة ونسبة الحضور والإنجاز، وتصفيتها بالاسم والباقة والحالة (غياب متتالٍ، إنجاز منخفض، قرب انتهاء الاشتراك…).</p>
-    <ol class="steps"><li>اضغط الاسم لفتح بطاقته: الحضور والإنجاز وواجباتك المرسلة له وما سلّمه وآخر تسليماته.</li><li>حدّد عدة أسماء ثم «حفظ كمجموعة» لتستهدفهم بواجب لاحقًا.</li></ol>
+    <ol class="steps"><li>اضغط الاسم لفتح بطاقته: الحضور والإنجاز وواجباتك المرسلة له وما سلّمه وآخر تسليماته، وتحتها <b>تحليل مستواه</b> في مقرراتك: نسبة الصواب لكل مهارة من الأضعف (من التدريب والمحاكي واختباراتك).</li><li>حدّد عدة أسماء ثم «حفظ كمجموعة» لتستهدفهم بواجب لاحقًا.</li></ol>
     <p class="note info">لا تظهر هوية المتدرب ولا جواله في بوابة المدرب.</p>
     <div class="figs"><figure class="phone"><a href="img/t04_people.webp" target="_blank" rel="noopener"><img src="img/t04_people.webp" alt="قائمة متدربيّ" loading="lazy"></a><figcaption>قائمة متدربيّ</figcaption></figure><figure class="phone"><a href="img/t05_trainee_card.webp" target="_blank" rel="noopener"><img src="img/t05_trainee_card.webp" alt="بطاقة متدرب" loading="lazy"></a><figcaption>بطاقة متدرب</figcaption></figure></div></section>
 <section id="groups"><h2><span class="n">4</span>المجموعات</h2>

diff --git a/src/style.css b/src/style.css
@@ -1376,3 +1376,19 @@ body.sim-on{overflow:hidden}
 .an-tr{font-size:11px;margin-inline-start:4px}.an-tr.up{color:var(--success)}.an-tr.dn{color:var(--danger)}
 .an-foot{margin:12px 0 0;font-size:12px}
 .an-in-modal{margin-top:14px}.an-in-modal .an-card{margin:0;box-shadow:none}
+
+/* ---------- الخطوة AS: تقرير الأسبوع ---------- */
+.wk-card{margin-bottom:16px;border-top:3px solid var(--brand)}
+.wk-h{display:flex;flex-wrap:wrap;justify-content:space-between;align-items:center;gap:8px 12px;margin-bottom:10px}
+.wk-nav{display:flex;align-items:center;gap:8px;flex-wrap:wrap}.wk-nav .btn{min-width:44px;justify-content:center}
+.wk-sum{background:var(--brand-tint);border-radius:12px;padding:10px 14px;margin-bottom:12px}.wk-sum p{margin:2px 0;line-height:1.9}
+.wk-kpis{display:grid;grid-template-columns:repeat(auto-fit,minmax(120px,1fr));gap:10px;margin-bottom:6px}
+.wk-kpis > div{border:1px solid var(--border);border-radius:12px;padding:10px 12px;display:grid;gap:2px}
+.wk-kpis span{font-size:13px;opacity:.8}.wk-kpis b{font-size:22px}.wk-kpis small{font-size:12px;opacity:.75}
+.wk h4{font-size:15px;margin:14px 0 6px}
+.wk-days{list-style:none;margin:0;padding:0;display:grid;gap:4px}
+.wk-days li{display:flex;flex-wrap:wrap;gap:4px 10px;align-items:center;padding:6px 10px;border-radius:10px;background:var(--surface-sunken)}
+.wk-days li .pill{margin-inline-start:auto}
+.wk-sk{display:grid;gap:8px}.wk-sk > div{display:flex;flex-wrap:wrap;gap:6px;align-items:center}
+.wk-tips{margin:0;padding-inline-start:20px;line-height:1.9}
+.wk-print .wk-sum{background:#eef7f5}.wk-print .wk-days li{background:#f5f7f7;break-inside:avoid}.wk-print .wk-kpis{display:none}

diff --git a/src/inbox_logic.js b/src/inbox_logic.js
@@ -4,8 +4,8 @@ import { uid, toMin, t12 } from './utils.js';
 import { sessionOn, SECTIONS, planName } from './qudurat.js';
 
 export const SOON_DEFAULT = 10;      // دقائق قبل بدء الجلسة (0 = معطّل)
-export const KIND_TITLE = { session_soon:'تبدأ الجلسة قريبًا', absence:'غياب', late:'تأخر', reminder:'تذكير بالحضور', homework:'واجب', general:'إشعار', admin:'رسالة من إدارة المعهد', message:'رسالة جديدة' };
-export const KIND_TONE = { session_soon:'info', absence:'bad', late:'warn', reminder:'warn', homework:'warn', general:'info', admin:'info', message:'ok' };
+export const KIND_TITLE = { weekly_report:'تقرير الأسبوع', session_soon:'تبدأ الجلسة قريبًا', absence:'غياب', late:'تأخر', reminder:'تذكير بالحضور', homework:'واجب', general:'إشعار', admin:'رسالة من إدارة المعهد', message:'رسالة جديدة' };
+export const KIND_TONE = { weekly_report:'ok', session_soon:'info', absence:'bad', late:'warn', reminder:'warn', homework:'warn', general:'info', admin:'info', message:'ok' };
 export const AUDIENCE_TXT = { student:'المتدربون', guardian:'أولياء الأمور', teacher:'المدربون' };
 
 const isRunning = (c, d) => !c.archived_at && c.start_date <= d && c.end_date >= d;
